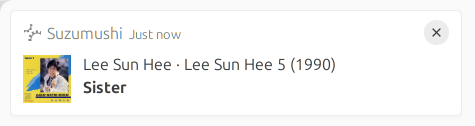
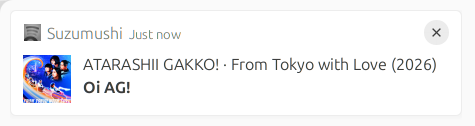
docs: refresh notification screenshot at original size

Changed region(s): [[0.1768, 0.4524, 0.9432, 0.5952], [0.0295, 0.4286, 0.2947, 0.8333], [0.0295, 0.1905, 0.0884, 0.3333]]

diff --git a/README.md b/README.md
@@ -4,7 +4,7 @@
 
 Suzumushi shows desktop notifications for Spotify music playing on any of your account's devices. It runs in the background as a systemd user service.
 
-![Suzumushi notification showing album artwork, artist, album, release year, and a bold track title](docs/images/notification.png)
+<img src="docs/images/notification.png" alt="Suzumushi notification showing album artwork, artist, album, release year, and a bold track title" width="475" height="126">
 
 ## Installation
 
